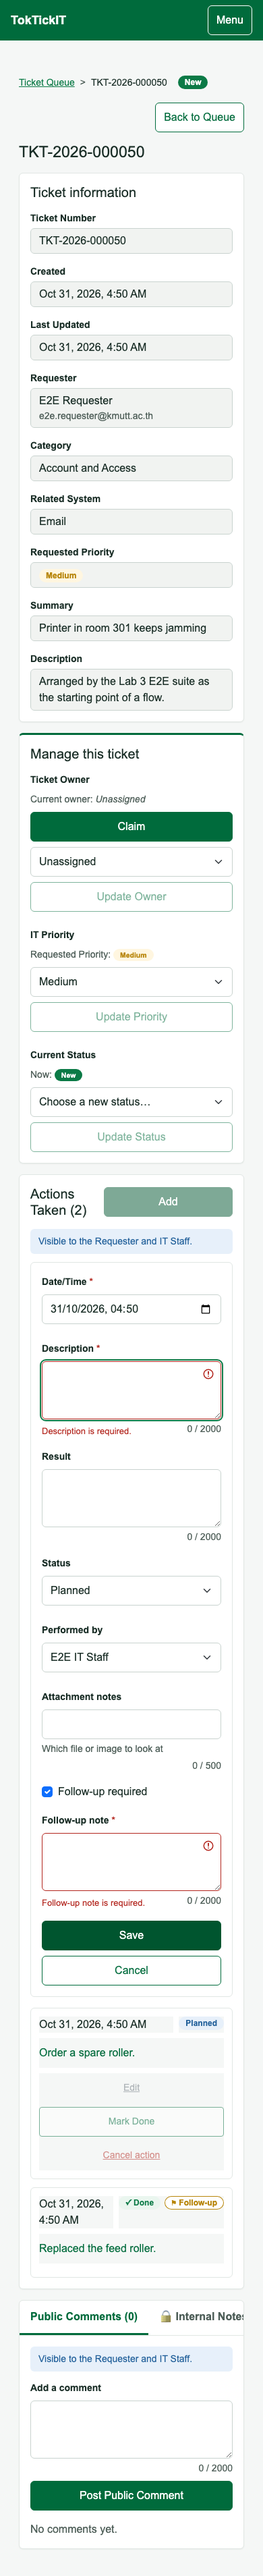
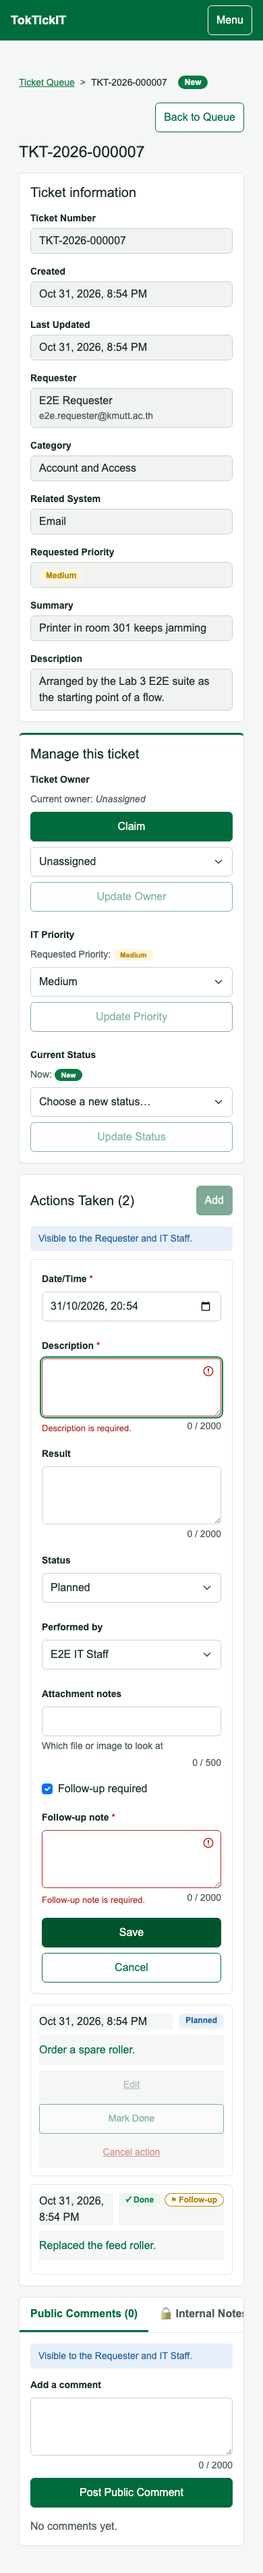
no-mistakes(review): Fix mobile Add width; record Lab 4 results and checklist

diff --git a/e2e/lab-04/responsive.spec.ts b/e2e/lab-04/responsive.spec.ts
@@ -55,6 +55,12 @@ test.describe('responsive: Actions Taken card', () => {
         for (const control of await card(page).getByRole('button').all()) {
           expect((await control.boundingBox())!.height).toBeGreaterThanOrEqual(44)
         }
+
+        // Add stays beside the title, which keeps to one line.
+        const add = (await card(page).getByRole('button', { name: 'Add' }).boundingBox())!
+        const title = (await card(page).getByRole('heading', { name: /Actions Taken/ }).boundingBox())!
+        expect(add.width).toBeLessThan(size.width / 2)
+        expect(title.height).toBeLessThanOrEqual(add.height)
       }
 
       await card(page).locator('.tk-actions__disclosure').click()

diff --git a/client/src/theme.css b/client/src/theme.css
@@ -1437,7 +1437,7 @@ a.tk-metric:hover {
   .tk-actions__form-buttons {
     flex-direction: column-reverse;
   }
-  .tk-actions__header .btn {
+  .tk-actions .tk-actions__header .btn:not(.btn-link) {
     width: auto;
   }
 }

diff --git a/docs/lab-04/tests.md b/docs/lab-04/tests.md
@@ -143,8 +143,8 @@ The Ticket Change module has its own tests from #74,
 | UI-22 | UI | AC-11 | Edit a field after a failed or lost response, then Save | The request carries a new `clientRequestId` | `client/src/lab-04/ActionsTaken.test.tsx` | Pass |
 | VIS-01 | UI style | AC-46, AC-48 | Screenshots of the Requester Dashboard at the three widths, plus empty | Match the `ui-spec.md` §13 checklist | `e2e/lab-04/visual-dashboards.spec.ts` | Pass |
 | VIS-02 | UI style | AC-46, AC-48 | Screenshots of the IT Staff and Administrator dashboards at the three widths, plus empty | Same checklist | `e2e/lab-04/visual-dashboards.spec.ts` | Pass |
-| VIS-03 | UI style | AC-46, AC-48 | Screenshots of the Actions Taken card, staff and Requester, at the three widths, plus form, conflict, and Resolved not available | Same checklist | `e2e/lab-04/visual-actions-taken.spec.ts` | Planned |
-| VIS-04 | Responsive | AC-46 | Every Lab 4 screen at the three widths: page width against viewport; Actions Taken table or cards | No horizontal scroll; table on desktop and tablet, cards on mobile; one column on mobile dashboards | `e2e/lab-04/responsive.spec.ts` | Planned |
+| VIS-03 | UI style | AC-46, AC-48 | Screenshots of the Actions Taken card, staff and Requester, at the three widths, plus form, conflict, and Resolved not available | Same checklist | `e2e/lab-04/visual-actions-taken.spec.ts` | Planned: only the Resolved not available screenshot remains (#80) |
+| VIS-04 | Responsive | AC-46 | Every Lab 4 screen at the three widths: page width against viewport; Actions Taken table or cards | No horizontal scroll; table on desktop and tablet, cards on mobile; one column on mobile dashboards | `e2e/lab-04/responsive.spec.ts`, `e2e/lab-04/visual-dashboards.spec.ts` | Pass |
 | E2E-01 | E2E | AC-01, AC-07, AC-12, AC-13 | IT Staff adds Planned actions to a Ticket and assigns one to a colleague, who adds their own and marks the assigned one Done; staff cancel another; staff and the Requester open all of them | Actions by different staff on one Ticket; newest created first after a reload too; each row opens to every field for both; each step visible to the right role; read-only for the Requester | `e2e/lab-04/actions-taken-flow.spec.ts` | Pass |
 | E2E-02 | E2E | AC-05, AC-06 | Inactive user is not offered; other IT Staff sees no row buttons and is refused by direct request | Not listed; no buttons; 403 | `e2e/lab-04/actions-taken-flow.spec.ts` | Pass |
 | E2E-03 | E2E | AC-09 | Two staff sessions edit the same Planned action | The second sees the conflict with typed data kept, then reloads | `e2e/lab-04/actions-taken-flow.spec.ts` | Pass |
@@ -156,7 +156,7 @@ The Ticket Change module has its own tests from #74,
 | E2E-09 | E2E | AC-33, AC-43 | Administrator signs in and opens each Active accounts card | Filtered User Management; every Lab 3 entry remains | `e2e/lab-04/dashboards.spec.ts` | Pass |
 | E2E-10 | E2E | AC-36, AC-38 | Staff opens `/dashboard`; Requester opens `/staff/dashboard`; each calls the other's API | Forbidden page; 403 | `e2e/lab-04/dashboards.spec.ts` | Pass |
 | E2E-11 | E2E | AC-47 | Keyboard-only pass over every Lab 4 screen, the form, and the confirmation | Every control reachable with visible focus and an accessible name; focus returns on close | `e2e/lab-04/accessibility.spec.ts` | Planned |
-| E2E-12 | E2E | AC-45 | Dashboards and the Actions Taken form with the API forced to fail | Safe message; typed data kept; no internal detail on screen | `e2e/lab-04/safe-failure.spec.ts` | Planned |
+| E2E-12 | E2E | AC-45 | Dashboards and the Actions Taken form with the API forced to fail | Safe message; typed data kept; no internal detail on screen | `e2e/lab-04/safe-failure.spec.ts`, `e2e/lab-04/visual-dashboards.spec.ts` | Pass |
 | E2E-13 | E2E | AC-49 | Visit every screen of every role, following each link, with a console listener | No console error, no broken link, no placeholder text | `e2e/lab-04/final-regression.spec.ts` | Planned |
 | E2E-14 | E2E | AC-42 | One full journey: login, create a Ticket, Attachment, comment, note, Action Taken, resolve, close, plus user administration | Every earlier function still works alongside Lab 4 | `e2e/lab-04/final-regression.spec.ts` | Planned |
 
@@ -247,5 +247,7 @@ To be recorded from the final run on `main`.
 
 ## 7. Known Limitations or Deferred Tests
 
-None planned. Any test deferred during the sprint is recorded here with its
-reason.
+Any test deferred during the sprint is recorded here with its reason.
+
+- VIS-03: the Resolved not available screenshot waits for the Ticket status
+  control of #80. Every other VIS-03 screenshot is captured.

diff --git a/docs/lab-04/visual-checklist-results.md b/docs/lab-04/visual-checklist-results.md
@@ -2,9 +2,11 @@
 
 The checklist is `ui-spec.md` §13. Screenshots are in
 `artifacts/lab-04/screenshots/`, captured by
-`e2e/lab-04/visual-dashboards.spec.ts` at desktop (1280px), tablet (900px),
-and mobile (390px). That spec also fails on any horizontal page scroll and
-checks the card and table layouts of `ui-spec.md` §5.3 and §6.3.
+`e2e/lab-04/visual-dashboards.spec.ts` and
+`e2e/lab-04/visual-actions-taken.spec.ts` at desktop (1280px), tablet (900px),
+and mobile (390px). The dashboards spec also fails on any horizontal page
+scroll and checks the card and table layouts of `ui-spec.md` §5.3 and §6.3;
+`e2e/lab-04/responsive.spec.ts` does the same for the Actions Taken card.
 
 ## Requester, IT Staff, and Administrator dashboards
 
@@ -22,3 +24,28 @@ checks the card and table layouts of `ui-spec.md` §5.3 and §6.3.
 The items about Actions Taken, Resolved (not available), form fields,
 validation, dialogs, and conflicts do not apply to these screens. They belong
 to the Actions Taken and Ticket status screens.
+
+## Staff and Requester Ticket Detail with Actions Taken
+
+- [x] Design consistency: the card uses only Zen Green tokens and shared
+      components and reads as one application
+- [x] Badges for Action status and Follow-up match §2.2
+- [x] Editable and read-only fields are visibly different, in the form and in
+      view mode
+- [x] Shared Actions Taken and private Internal Notes are unmistakably
+      different: the card has the blue "visible to" strip, and Internal Notes
+      keep their locked tab
+- [x] Validation messages sit directly under the field they concern
+- [x] No clipped labels, and no truncated text without an ellipsis and tooltip
+      (a long description ends in an ellipsis, with the full text as its
+      title, and opens in full)
+- [x] No overlapping controls, messages, or dialogs
+- [x] No horizontal page scroll
+- [x] Actions Taken is a table on desktop and tablet and cards on mobile
+- [x] Loading, empty, forbidden, not-found, conflict, and failure states are
+      present and styled (conflict is in the screenshots; the others are
+      covered by UI-06, UI-10, and E2E-12, without a screenshot)
+- [ ] Focus: every control shows a visible focus indicator, and dialogs keep
+      focus inside. Open until the keyboard pass of E2E-11 (#82).
+- [ ] Resolved (not available) and its reason are clear. Open until the
+      Ticket status control of #80.
